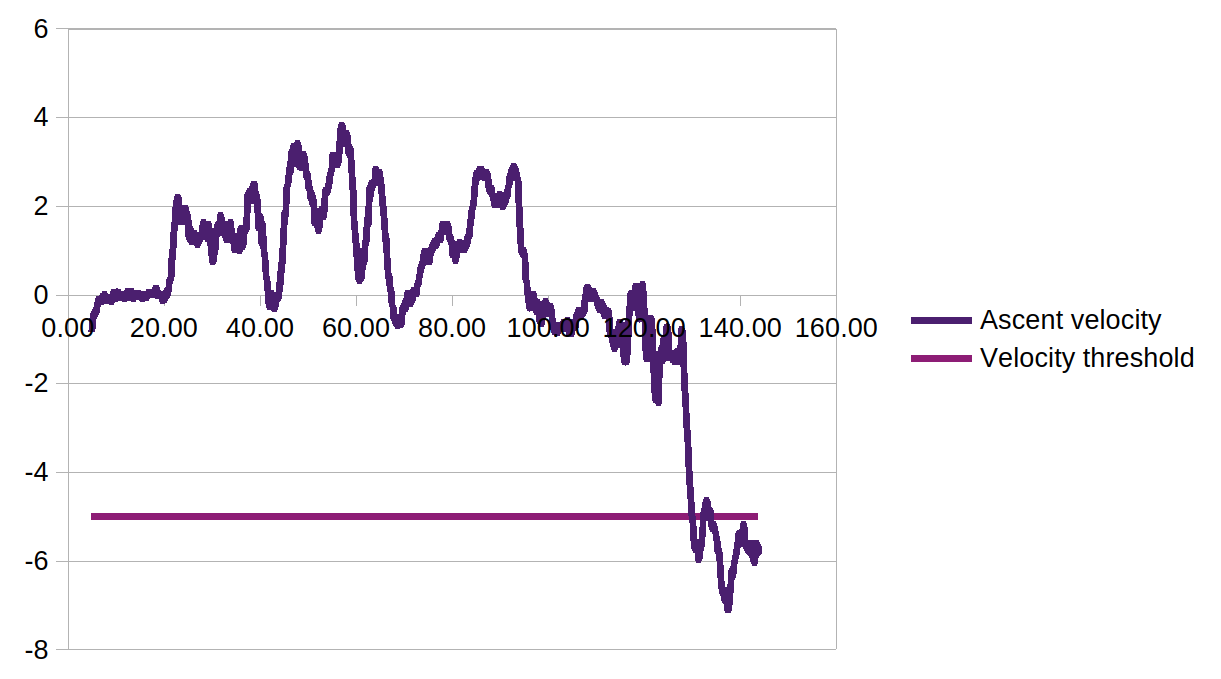
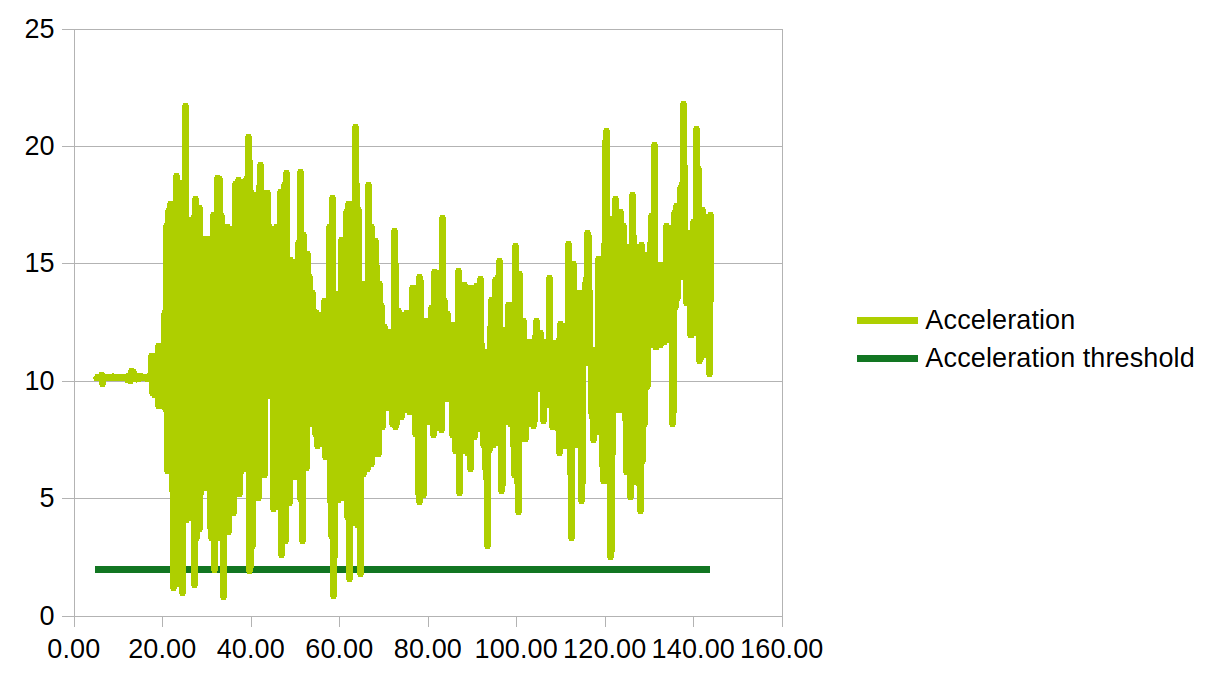
GITBOOK-26: Jordan's Apr 25 changes

diff --git a/projects/tethered-satellite/t-sat-0/README.md b/projects/tethered-satellite/t-sat-0/README.md
@@ -4,13 +4,42 @@ description: Explanation of the T-Sat-0 mission plan, goals, and architecture.
 
 # T-Sat-0
 
-Tethered-Sat-0 (T-Sat-0) was the Knights Satellite Club's first iteration of the greater T-Sat Project. From Project Fruition to launch took a little over 3 semesters to complete.
+Tethered-Sat (T-Sat) is an ongoing balloon project within the Knights Satellite Club initially beginning in Fall 2023 as a beginner-friendly, rapidly developed platform for hands-on learning and experimentation. The project was created to give new members an accessible entry point into satellite systems, reducing the intimidation factor of jumping straight into a full orbital CubeSat development cycle.
 
-\*\*Josh talk about the initial establishment of T-Sat
+By utilizing a tethered balloon as a launch platform, T-Sat offers an opportunity for students to engage with the full lifecycle of a CubeSat mission. From design and prototyping, to subsystem integration, testing, and launch all within the span of a single semester. This quick turnaround allows new members to see their contributions materialize in real time, creating a sense of accomplishment early in their involvement.\
+\
 
-## Mechanical
+
+<figure><img src="https://lh7-rt.googleusercontent.com/slidesz/AGV_vUeOWGE18VczwagY0xEnzX152dZSmu7T1VdIjXCvvbJgQZHV2HLxwWEVlyWORfP3jiinmB_vw2VV8EI_AVNoBHMSmKpSkRNkoLN_9YF--IqlETc68Lm1zdidTxSgaKabtMRnVL78oP_tH-70ACqP37VsoHBm4A=nw?key=9265HlvNzRsM0gWzzW7iqA" alt=""><figcaption><p>Tethered-Sat 0 Flight Profile</p></figcaption></figure>
+
+Beyond being a training ground, Tethered-Sat also serves as a technical pipeline for the club. More experienced members are encouraged to take on subsystem leadership roles within T-Sat, developing their skills in team management and system integration before transitioning to larger, more complex club projects such as KAOS or our long term orbital CubeSat mission. This progression pathway supports both technical growth and leadership development across all experience levels.
+
+Additionally, T-Sat plays a vital role in the club’s research and development strategy. The platform is used to test experimental payloads, validate subsystems, and prototype new technologies before they are integrated into orbital missions. This makes Tethered-Sat not only an educational tool, but also a key component of the club’s iterative design philosophy and mission readiness pipeline.\
+\
+Tethered-Sat-0 (T-Sat-0) was the Knights Satellite Club's first iteration of the greater T-Sat Project. From Project Fruition to launch took a little over 3 semesters to complete. Moving forward T-Sat versions will follow a more rapid turnaround period to launch within a single semester or two depending on the demands of the experiment. With the structure, documentation, and launch operations developed during T-Sat-0 this goal will be attainable during future versions.
+
+## Mechanical&#x20;
+
+#### Mechanical Development of T-Sat-0
+
+The mechanical team in the Knights Satellite Club faced the challenge of developing a deployable parachute mechanism for the T-Sat-0 mission, with the primary objective of ensuring a safe payload recovery post release from the burn wire. This endeavor was pivotal and fully centered on mechanical design and rigorous testing.
+
+**Initial Research and Decision**
+
+During the initial research phase, the team evaluated various deployment methods for the parachute system. Ultimately, it was determined that a spring deployment mechanism would offer greater simplicity and ease of integration within a 1U CubeSat, compared to a more complex pneumatic system.
+
+**Design and Prototyping**
+
+The team embarked on designing the parachute deployment system (PDS), opting for an open-top canister design equipped with a spring-activated platform. This design aimed to facilitate efficient deployment while maintaining a minimal footprint. Multiple iterations of the PDS were created using 3D printing manufacturing, allowing the team to refine the design, reduce complexity, and enhance functionality.\
 
 
+<figure><img src="../../../.gitbook/assets/image.png" alt=""><figcaption><p>Final CAD assembly of T-Sat-0 PDS</p></figcaption></figure>
+
+**Finalization**
+
+Through continuous testing and improvement, the final design of the PDS emerged effectively balancing size constraints with operational reliability, thereby achieving the desired outcomes for the T-Sat-0 project.
+
+<figure><img src="https://lh7-rt.googleusercontent.com/slidesz/AGV_vUclAMjzr_o0nMZv9axGW2eCBPSYvFZRW-jvxE4pajoLp-MI3rXtNn6CPGDOrncipn7eKc9hq3cTYyQEOx1G8zc7LqjLKUdhPQhJ7Iy6fnI7TaiKNS5oB_V3ZX1iDQUJjCuWpkQb=nw?key=jaWAqQa8wC8sb7bqOJoMcEuT" alt=""><figcaption><p>Flight ready  T-Sat-0 </p></figcaption></figure>
 
 ## Avionics
 

diff --git a/projects/tethered-satellite/t-sat-0/flight-results.md b/projects/tethered-satellite/t-sat-0/flight-results.md
@@ -6,11 +6,11 @@ description: Results collected from the 2/20/25 test flight of T-Sat-0.
 
 ## Overview
 
-T-Sat-0 took flight from the UCF Arboretum on the morning of February 20th, 2025. The same balloon was used for two flights. The parachute deployed early on both flights, and the burn wire detachment system was used successfully on the second flight.
+T-Sat-0 took flight from the UCF Arboretum on the morning of January 20th, 2025. The same balloon was used for two flights. The parachute deployed early on both flights, and the burn wire detachment system was used successfully on the second flight.
 
 ## Flight 1
 
-T-Sat-0 took flight from the UCF Arboretum on February 20th, 2025. The same balloon was used for two flights. The first carried T-Sat-0 and MEDUSA, a Muon detection experiment from the UCF Astronomy Society.
+The first flight carried T-Sat-0 and MEDUSA, a Muon detection experiment from the UCF Astronomy Society.
 
 <figure><img src="https://lh7-rt.googleusercontent.com/slidesz/AGV_vUd8SLsFXmzLgcJlfuuGiut_mIRI69Z8u4LFxUNOFM3BSQXa5u0qUmCEFopCLExlolKLiJrCVeXmgi7PlnLI0w26DqenlX8qEG2_hldlO8pG6QfwTnsH5-X3GaucxUq_B4VEyNBq=s2048?key=I-AHlkPXxM43iLi55J0ynzKH" alt=""><figcaption><p>Altitude graph for flight 1 of T-Sat-0. Measured in m.</p></figcaption></figure>
 
@@ -42,11 +42,11 @@ Once the balloon was reeled in, MEDUSA and some rigging hardware was removed. Th
 
 This flight overcame the winds and achieved a max altitude of 119m (390ft) before the burn wire was remotely triggered and T-Sat-0 detached from the balloon. Unfortunately, the payload drifted to a paved area and was destroyed when it hit a concrete loading dock.
 
-<figure><img src="../../../.gitbook/assets/image.png" alt=""><figcaption><p>Acceleration graph for flight 2 of T-Sat-0. Measured in m/s/s.</p></figcaption></figure>
+<figure><img src="../../../.gitbook/assets/image (1).png" alt=""><figcaption><p>Acceleration graph for flight 2 of T-Sat-0. Measured in m/s/s.</p></figcaption></figure>
 
 Again, rough conditions and inconsistent tether release caused the accelerometer reading to go below threshold and activate the parachute. The early deployment caused the excessive drift which led to the destruction of the payload.
 
-<figure><img src="../../../.gitbook/assets/image (1).png" alt=""><figcaption><p>Ascent velocity graph for flight 2 of T-Sat-0. Measured in m/s.</p></figcaption></figure>
+<figure><img src="../../../.gitbook/assets/image (1) (1).png" alt=""><figcaption><p>Ascent velocity graph for flight 2 of T-Sat-0. Measured in m/s.</p></figcaption></figure>
 
 The ascent velocity dipped below the -5m/s threshold only after the burn wire had triggered. Based on this, we can conclude that had we only relied on the velocity data the parachute deployment would have likely worked correctly. This graph shows that T-Sat-0 was falling at 6m/s after the parachute deployed.
 

diff --git a/projects/tethered-satellite/t-sat-0/hardware.md b/projects/tethered-satellite/t-sat-0/hardware.md
@@ -4,3 +4,6 @@ description: Details about the mechanical components of T-Sat-0.
 
 # Hardware
 
+## Overview
+
+Our mechanical team worked on and iterated design using OnShape as our CAD platform. As a low cost and easy prototyping option we used 3D printing as our means of manufacturing. This gave us freedom while iterating and helped our relatively inexperienced team at multiple points in development as changes were made on the fly during testing or other points during development.
